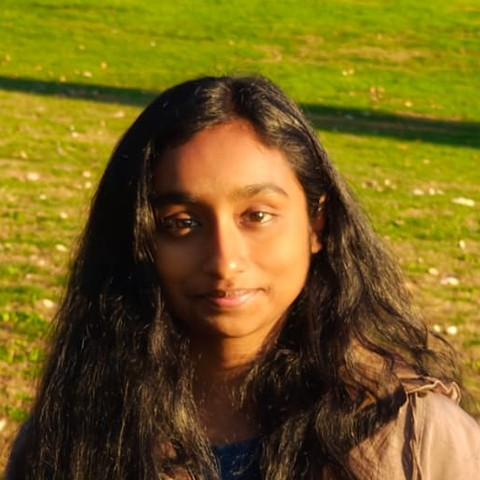
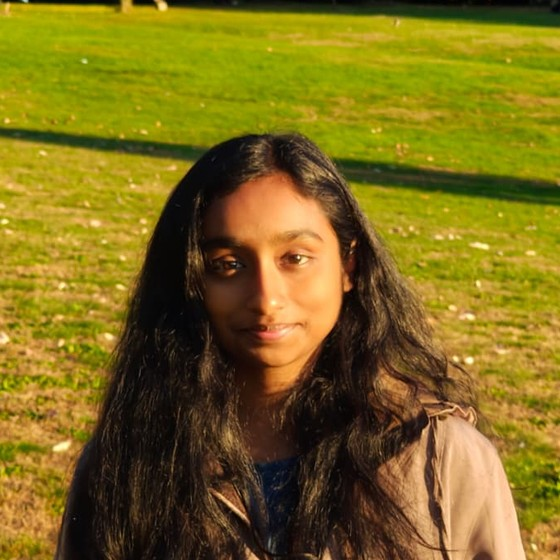
Add CSS zoom control for profile picture; match phone size to desktop

diff --git a/index.html b/index.html
@@ -105,14 +105,21 @@
 
   /* intro under hero */
   .intro{padding-block:40px 8px}
-  /* square profile picture (separate from the hero band).
-     Swap assets/img/profile.jpeg to change it; it stays cropped to a square. */
+  /* profile picture (separate from the hero band).
+     - Swap assets/img/profile.jpeg to change the photo.
+     - ZOOM:  change --zoom below. Higher = zoom IN on the face,
+              lower = zoom OUT (1.0 shows the whole photo).
+     - FRAME SIZE / SHAPE:  change width / height on .avatar. */
   .avatar{
-    float:right;width:240px;height:280px;border-radius:14px;object-fit:cover;
+    --zoom:1.3;
+    float:right;width:240px;height:280px;border-radius:14px;overflow:hidden;
     margin:0 0 18px 30px;border:4px solid #fff;box-shadow:0 4px 18px rgba(0,0,0,.16);
     background:var(--strip);
   }
-  @media (max-width:560px){ .avatar{width:200px;height:200px;margin:0 0 14px 18px} }
+  .avatar img{
+    width:100%;height:100%;object-fit:cover;display:block;
+    transform:scale(var(--zoom));transform-origin:center;
+  }
   .intro p{font-size:clamp(1.02rem,1.8vw,1.18rem);color:var(--muted);max-width:720px;margin:0 0 18px}
   .intro p b{color:var(--ink);font-weight:600}
   .contact{display:flex;flex-wrap:wrap;gap:10px;margin-top:6px}
@@ -265,7 +272,7 @@
     <!-- [EDIT: INTRO] -->
     <div class="wrap intro">
       <!-- square profile picture (swap assets/img/profile.jpeg) -->
-      <img class="avatar" src="assets/img/profile.jpeg" alt="Mugdha Meda" width="240" height="240">
+      <div class="avatar"><img src="assets/img/profile.jpeg" alt="Mugdha Meda"></div>
       <p>I am a Master's student in Mechanical Engineering- Research at Carnegie Mellon with a focus on Dynamics and Controls. My background spans model-based and learned control, state estimation, multibody dynamics, and much mechanism design and fabrication.</p>
       <p><b>Toolbox:</b> C/C++, Python, MATLAB/Simulink, ROS2, Arduino, ADAMS, Ansys, ABAQUS, Webots, Gazebo, Onshape, SolidWorks, Fusion 360.</p>
       <!-- [EDIT: LINKS] contact chips -->
